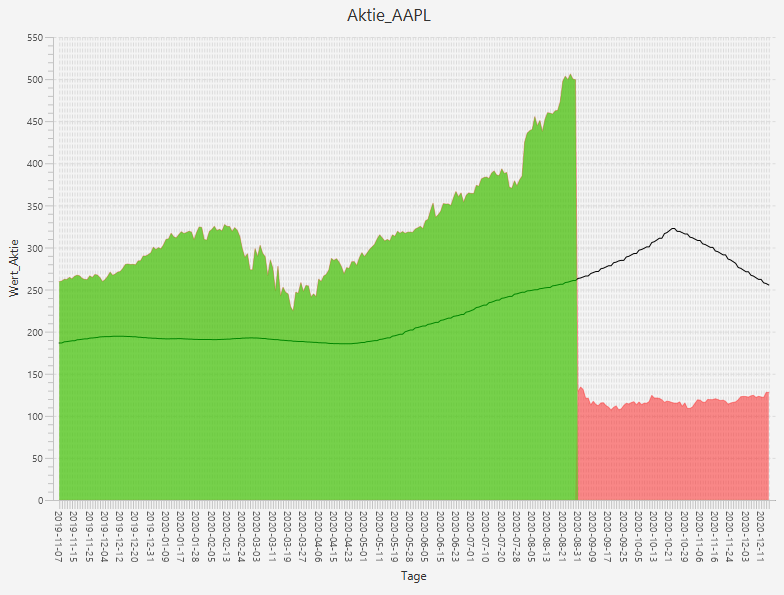
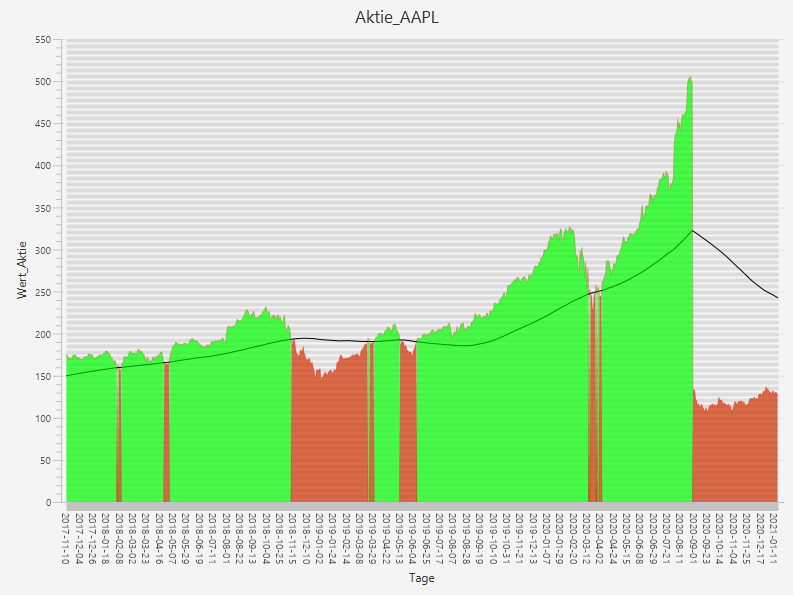
SWP

diff --git a/4.Klasse/SWP_Normal/Projekte/Projekt2/Aktienkurs/src/API_Aktienkurs/style.css b/4.Klasse/SWP_Normal/Projekte/Projekt2/Aktienkurs/src/API_Aktienkurs/style.css
@@ -8,7 +8,8 @@
 .default-color2.chart-series-area-line { -fx-stroke: #00FF0010;}
 .default-color3.chart-series-area-line { -fx-stroke: #FF000010;}
 
-.default-color0.chart-series-area-fill { -fx-fill: #FF000060;}
+.default-color0.chart-series-area-fill { -fx-fill: #00FF0050;}
 .default-color1.chart-series-area-fill { -fx-fill: #FFFFFF10;}
-.default-color2.chart-series-area-fill { -fx-fill: #00FF0086;}
-.default-color3.chart-series-area-fill { -fx-fill: #FF000025;}
+.default-color2.chart-series-area-fill { -fx-fill: #00FF0090;}
+.default-color3.chart-series-area-fill { -fx-fill: #FF000090;}
+

diff --git a/4.Klasse/SWP_Normal/Projekte/Projekt2/Aktienkurs/src/API_Aktienkurs/Aktien.java b/4.Klasse/SWP_Normal/Projekte/Projekt2/Aktienkurs/src/API_Aktienkurs/Aktien.java
@@ -17,9 +17,12 @@ import org.json.JSONObject;
 public class Aktien extends Durchschnitt{
 
 	String host, database, user, passwort;
+	int anzahl;
+	static int ID=1;
 
 	public Aktien(String s, int t, String h, String d, String u, String p) {
 		super(s, t);
+		this.anzahl=t;
 		this.host=h;
 		this.database=d;
 		this.user=u;
@@ -36,6 +39,28 @@ public class Aktien extends Durchschnitt{
 			tage=tage+getPreis(firstStep, "" + LocalDate.now().minusDays(zaehler + 1) + "", zaehler);
 			zaehler++;
 		} while (zaehler<tage);
+
+		gleitenderDurchschnitt(anzahl);
+	}
+	
+	public void gleitenderDurchschnitt(int max){
+		int id=1;
+		while (id<=(max-200)) {
+			try {
+				Class.forName("com.mysql.cj.jdbc.Driver");
+				Connection con = DriverManager.getConnection("jdbc:mysql://"+host+"/"+database+"?user="+user+"&password="+passwort+"&serverTimezone=UTC");
+				Statement stat=con.createStatement();
+				ResultSet reSe=stat.executeQuery("select avg(TagesEndPreis) as Durchschnitt from Aktie_"+type+" where ID>="+id+" and ID<"+(id+200));	
+				while (reSe.next()) {
+					double durchschnitt=Double.parseDouble(reSe.getString("Durchschnitt"));
+					DB_INSERT(durchschnitt, id);
+				}
+				id++;
+			}catch(Exception ex){
+				ex.printStackTrace();
+				System.out.println("Verbinden fehlgeschlagen");
+			}
+		}
 	}
 	
 	public int getPreis(JSONObject json, String key, int z) throws JSONException, NumberFormatException, MalformedURLException, IOException {
@@ -46,7 +71,8 @@ public class Aktien extends Durchschnitt{
 			return 1;
 		}
 		String preis = bestaetigt.getString("4. close");
-		DB_INSERT(key, Double.parseDouble(preis), gleitenderDurchschnitt(key, z, json));
+		DB_INSERT(key, Double.parseDouble(preis), ID);
+		ID++;
 		return 0;
 	}
 	
@@ -58,12 +84,12 @@ public class Aktien extends Durchschnitt{
 			Statement stat=con.createStatement();
 			System.out.println("neue Datenbank erstellen?(j/n)");
 			if(s.next().equals("j")) {
-				stat.execute("DROP DATABASE Aktien");
+				stat.execute("DROP DATABASE IF EXISTS Aktien");
 				stat.execute("CREATE DATABASE IF NOT EXISTS Aktien");
 			}
 			stat.execute("use Aktien");
-			stat.execute("create table if not exists Aktie_"+type+"(Zeitpunkt varchar(25), TagesEndPreis double, Primary Key(Zeitpunkt))");
-			stat.execute("create table if not exists Aktie_"+type+"_200erDurchschnitt(Zeitpunkt varchar(25), Durchschnitt double, Primary Key(Zeitpunkt))");
+			stat.execute("create table if not exists Aktie_"+type+"(ID int, Zeitpunkt varchar(25), TagesEndPreis double, Primary Key(ID))");
+			stat.execute("create table if not exists Aktie_"+type+"_200erDurchschnitt(ID int, Durchschnitt double, Primary Key(ID))");
 			con.close();
 			s.close();
 		}catch(Exception ex){
@@ -72,18 +98,33 @@ public class Aktien extends Durchschnitt{
 		}
 	}
 	
-	public void DB_INSERT(String zeitpunkt, double closeWert, double durchschnitt){
+	public void DB_INSERT(String zeitpunkt, double closeWert, int id){
 		try {
 			Class.forName("com.mysql.cj.jdbc.Driver");
 			Connection con = DriverManager.getConnection("jdbc:mysql://"+host+"/"+database+"?user="+user+"&password="+passwort+"&serverTimezone=UTC");
 			Statement stat=con.createStatement();
 			try {
-				stat.executeUpdate("INSERT INTO Aktie_" + type + " Values('" + zeitpunkt + "'," + closeWert + ")");
-				stat.executeUpdate("INSERT INTO Aktie_"+type+"_200erDurchschnitt Values('" + zeitpunkt + "'," + durchschnitt + ")");
+				stat.executeUpdate("INSERT INTO Aktie_" + type + " Values("+id+",'" + zeitpunkt + "'," + closeWert + ")");
 				
 			} catch (Exception e) {
-				stat.executeUpdate("UPDATE Aktie_" + type + " Set TagesEndPreis="+closeWert+" where Zeitpunkt='" + zeitpunkt + "'");
-				stat.executeUpdate("UPDATE Aktie_"+type+"_200erDurchschnitt Set Durchschnitt="+durchschnitt+" where Zeitpunkt='" + zeitpunkt + "'");
+				stat.executeUpdate("UPDATE Aktie_" + type + " Set TagesEndPreis="+closeWert+" where ID=" + id);
+			}
+		}catch(Exception ex){
+			ex.printStackTrace();
+			System.out.println("Verbinden fehlgeschlagen");
+		}
+	}
+	
+	public void DB_INSERT(double durchschnitt, int id){
+		try {
+			Class.forName("com.mysql.cj.jdbc.Driver");
+			Connection con = DriverManager.getConnection("jdbc:mysql://"+host+"/"+database+"?user="+user+"&password="+passwort+"&serverTimezone=UTC");
+			Statement stat=con.createStatement();
+			try {
+				stat.executeUpdate("INSERT INTO Aktie_"+type+"_200erDurchschnitt Values("+id+"," + durchschnitt + ")");
+				
+			} catch (Exception e) {
+				stat.executeUpdate("UPDATE Aktie_"+type+"_200erDurchschnitt Set Durchschnitt="+durchschnitt+" where ID=" + id);
 			}
 		}catch(Exception ex){
 			ex.printStackTrace();
@@ -96,22 +137,13 @@ public class Aktien extends Durchschnitt{
 			Class.forName("com.mysql.cj.jdbc.Driver");
 			Connection con = DriverManager.getConnection("jdbc:mysql://"+host+"/"+database+"?user="+user+"&password="+passwort+"&serverTimezone=UTC");
 			Statement stat=con.createStatement();
-			ResultSet reSe=stat.executeQuery("select * from Aktie_"+type);
+			ResultSet reSe=stat.executeQuery("select Zeitpunkt, TagesEndPreis from Aktie_"+type);
 			System.out.println();
 			System.out.println("TagesEndPreis:");
 			System.out.println(" Zeitpunkt | TagesEndPreis");
 			while(reSe.next()) {	
 				String zeitpunkt=reSe.getString("Zeitpunkt");
 				String wert=reSe.getString("TagesEndPreis");
-				System.out.println(zeitpunkt+" | "+wert);
-			}
-			reSe=stat.executeQuery("select * from Aktie_"+type+"_200erDurchschnitt");
-			System.out.println();
-			System.out.println("200erDurchschnitt:");
-			System.out.println(" Zeitpunkt | Durchschnitt");
-			while(reSe.next()) {	
-				String zeitpunkt=reSe.getString("Zeitpunkt");
-				String wert=reSe.getString("Durchschnitt");
 				System.out.println(zeitpunkt+" | "+wert);
 			}
 			con.close();

diff --git a/4.Klasse/SWP_Normal/Projekte/Projekt2/Aktienkurs/src/API_Aktienkurs/JavaFX.java b/4.Klasse/SWP_Normal/Projekte/Projekt2/Aktienkurs/src/API_Aktienkurs/JavaFX.java
@@ -42,17 +42,19 @@ public class JavaFX extends Application {
 		 ArrayList<Double> durchschnitt=new ArrayList<Double>();
 		 ArrayList<String> datum=new ArrayList<String>();
 		 try {
+			 	int zaehler=TestMain.anzahlTage-200;
 				Class.forName("com.mysql.cj.jdbc.Driver");
 				Connection con = DriverManager.getConnection("jdbc:mysql://"+TestMain.host+"/"+TestMain.database+"?user="+TestMain.user+"&password="+TestMain.passwort+"&serverTimezone=UTC");
 				Statement stat=con.createStatement();
-				ResultSet reSe=stat.executeQuery("select * from Aktie_"+TestMain.typ);
+				ResultSet reSe=stat.executeQuery("select * from Aktie_"+TestMain.typ+" where id<="+zaehler+" order by ID desc");
 				while(reSe.next()) {
 					series_aktie.getData().add(new XYChart.Data(reSe.getString("Zeitpunkt"), Double.parseDouble(reSe.getString("TagesEndPreis"))));
 					aktie.add(Double.parseDouble(reSe.getString("TagesEndPreis")));
 					datum.add(reSe.getString("Zeitpunkt"));
+					zaehler++;
 				}
-				
-				reSe=stat.executeQuery("select * from Aktie_"+TestMain.typ+"_200erDurchschnitt");
+
+				reSe=stat.executeQuery("select a.Zeitpunkt, b.Durchschnitt from Aktie_"+TestMain.typ+"_200erDurchschnitt b inner join Aktie_"+TestMain.typ+" a on a.ID=b.ID order by b.ID desc");
 				while(reSe.next()) {	
 					series_durchschnitt.getData().add(new XYChart.Data(reSe.getString("Zeitpunkt"), Double.parseDouble(reSe.getString("Durchschnitt"))));
 					durchschnitt.add(Double.parseDouble(reSe.getString("Durchschnitt")));

diff --git a/4.Klasse/SWP_Normal/Projekte/Projekt2/Aktienkurs/src/API_Aktienkurs/TestMain.java b/4.Klasse/SWP_Normal/Projekte/Projekt2/Aktienkurs/src/API_Aktienkurs/TestMain.java
@@ -7,7 +7,7 @@ public abstract class TestMain{
 	
 	static String host="localhost:3306", database="Aktien", user="root", passwort="sh30112002";
 	static String typ;
-	static int anzahlTage=280;
+	static int anzahlTage=1000;
 	
 	public static void main(String[] args) throws Exception {
 		angaben();
@@ -18,12 +18,13 @@ public abstract class TestMain{
 		
 		Application.launch(JavaFX.class, args);
 		
-		a.DB_SELECT();
+		//a.DB_SELECT();
 	}
 	
 	public static void angaben() {
 		Scanner a=new Scanner(System.in);
 		System.out.println("Firma angeben: ");
 		typ=a.nextLine();
+
 	}
 }

diff --git a/4.Klasse/SWP_Normal/Projekte/Projekt2/Aktienkurs/src/API_Aktienkurs/Durchschnitt.java b/4.Klasse/SWP_Normal/Projekte/Projekt2/Aktienkurs/src/API_Aktienkurs/Durchschnitt.java
@@ -1,6 +1,10 @@
 package API_Aktienkurs;
 import java.io.IOException;
 import java.net.MalformedURLException;
+import java.sql.Connection;
+import java.sql.DriverManager;
+import java.sql.ResultSet;
+import java.sql.Statement;
 import java.time.LocalDate;
 
 import org.json.JSONException;
